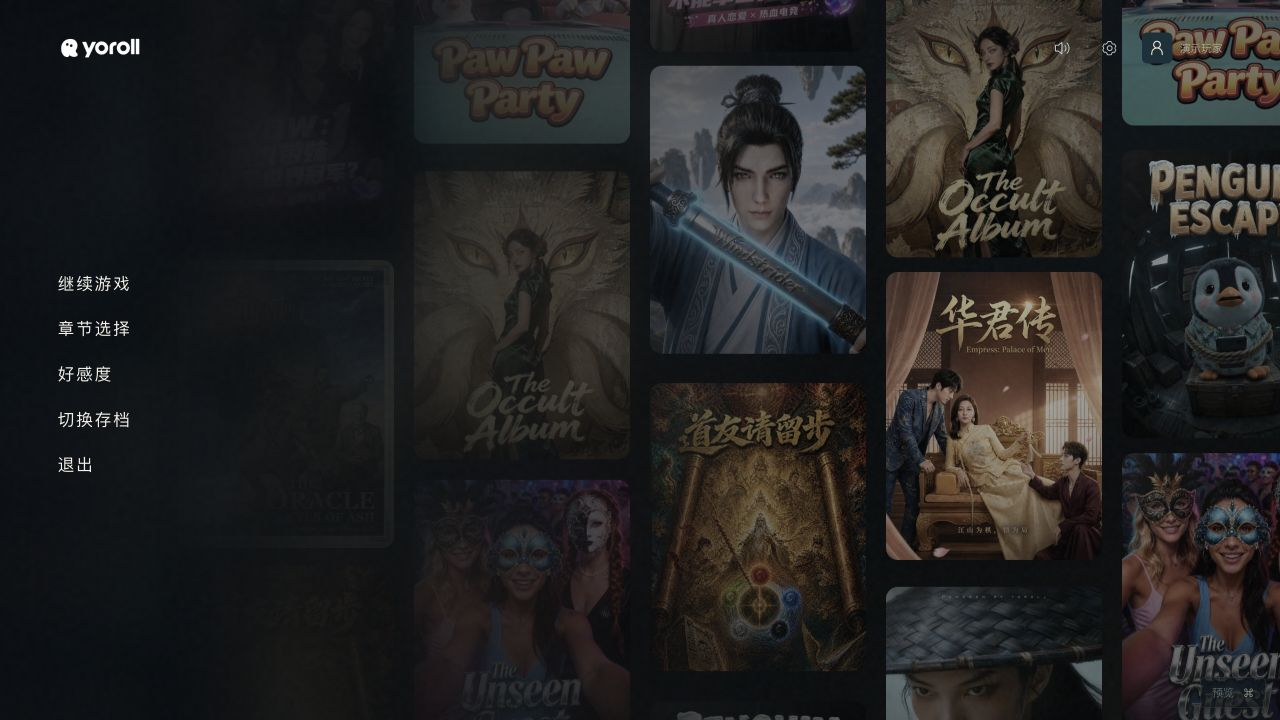
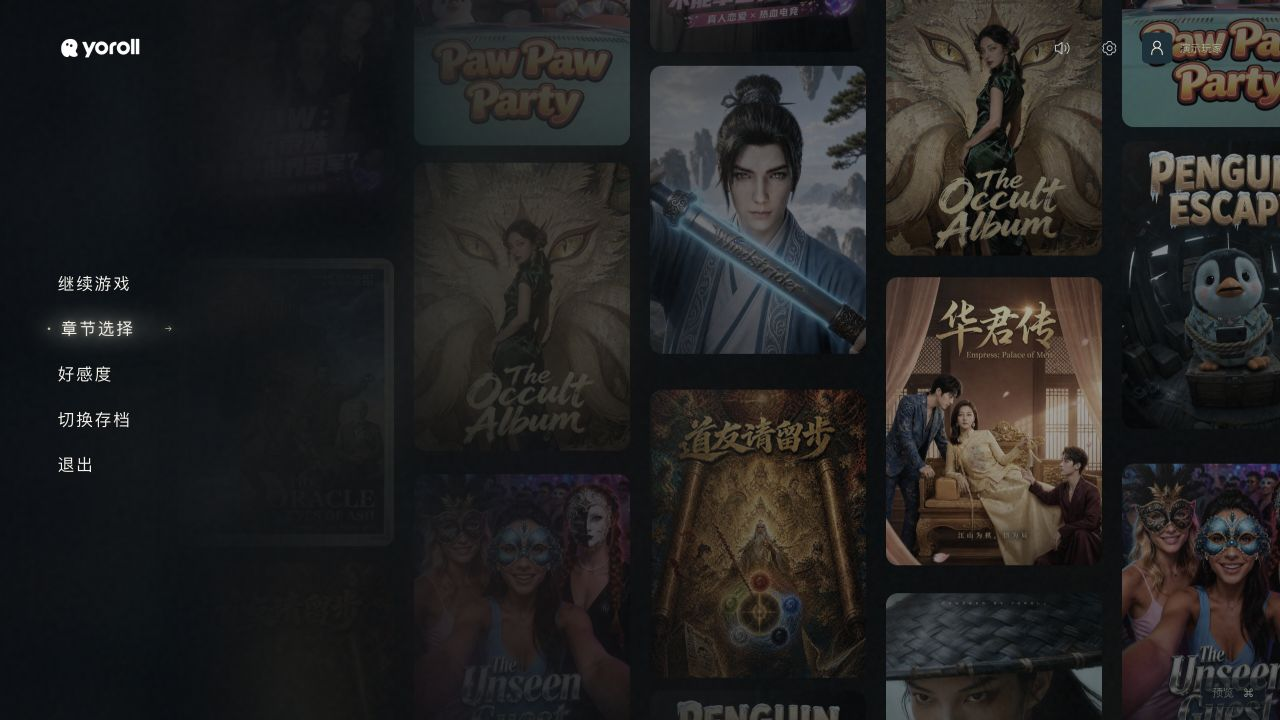
Add soft light to homepage menu hover states

diff --git a/compare.html b/compare.html
@@ -1,4 +1,4 @@
-<!doctype html><html lang="zh-CN"><head><meta charset="utf-8"><meta name="viewport" content="width=device-width,initial-scale=1"><title>Yoroll 游戏 UI · 改版对比与比例方案</title><link rel="icon" href="wall/assets/yoroll-icon.svg"><link rel="stylesheet" href="compare.css?v=real-game-covers-20261114"></head>
+<!doctype html><html lang="zh-CN"><head><meta charset="utf-8"><meta name="viewport" content="width=device-width,initial-scale=1"><title>Yoroll 游戏 UI · 改版对比与比例方案</title><link rel="icon" href="wall/assets/yoroll-icon.svg"><link rel="stylesheet" href="compare.css?v=home-menu-hover-glow-20261114"></head>
 <body><header class="report-header"><a class="brand" href="index.html"><img src="assets/yoroll-logo.png" alt="yoroll"></a><div><span>UI / MOTION STUDY</span><h1>更克制的比例，更连贯的节奏。</h1></div><a id="open-prototype" class="primary-link" href="index.html?page=home" target="_blank">打开交互原型 ↗</a></header>
 <div class="scope"><i></i><span>本地交互方案</span><span>17 个页面 / 状态</span><span>全视口背景</span><span>未修改线上 Unity 游戏</span></div>
 <main class="report-layout"><aside class="page-sidebar"><div class="sidebar-title">逐页对比</div><nav id="page-list"></nav><a href="#proportions">比例调整方案 ↓</a><a href="#handoff">动效与交付说明 ↓</a></aside><article><section class="comparison-section"><div class="page-heading"><div><span id="page-kind" class="eyebrow"></span><h2 id="page-name"></h2></div><div class="page-switch"><button id="prev" aria-label="上一页">←</button><span id="page-count"></span><button id="next" aria-label="下一页">→</button></div></div>
@@ -6,4 +6,4 @@
 <div id="comparison" class="comparison fit-stage" data-mode="wipe"><div class="still-stage"><div class="before-layer"><img id="before-image" alt="修改前截图"><div id="no-before" class="no-before" hidden><span>—</span><h3>没有对应原版截图</h3><p id="before-note"></p></div><span class="picture-label before-label">原版</span></div><div class="after-layer" id="after-layer"><img id="after-image" alt="修改后截图"><span class="picture-label after-label">新版</span></div><div id="wipe-handle" class="wipe-handle"><span>↔</span></div><div class="safe-area" aria-hidden="true"><span>4.5% 水平安全区</span></div></div><div class="motion-stage" hidden><iframe id="motion-frame" title="页面动效预览"></iframe><div class="safe-area" aria-hidden="true"><span>4.5% 水平安全区</span></div></div></div>
 <div id="slider-row" class="slider-row"><span>新版更多</span><input id="wipe-slider" type="range" min="0" max="100" value="50" aria-label="新旧画面分割位置"><span>原版更多</span></div><p id="image-note" class="image-note"></p><div class="change-summary"><div><h3>布局与层级</h3><p id="change"></p></div><div><h3>比例</h3><p id="ratio"></p></div><div><h3>动效与操作</h3><p id="motion"></p><p id="interaction"></p></div></div></section>
 <section id="proportions" class="spec-section"><div class="section-heading"><span class="eyebrow">PROPORTION SYSTEM</span><h2>分别调整层级，建立统一的尺寸体系。</h2><p>以下均以 1920×1080 为设计基准。背景随视口铺满，UI 按当前基准等比缩放；水平安全区为画面宽度的 4.5%。原版数值来自截图估测。</p></div><div class="table-scroll"><table><thead><tr><th>项目</th><th>原版 · 约</th><th>新版</th><th>变化</th><th>调整目的</th></tr></thead><tbody id="proportion-table"></tbody></table></div><div class="principles"><div><span>01</span><h3>让场景成为主体</h3><p>减少全屏灰白覆盖和重高光。菜单、设置、弹窗用暗色虚化与局部明暗建立前后层次。</p></div><div><span>02</span><h3>控制视觉重量</h3><p>正文、辅助数值、主操作分别定标。保留大结果标题，收紧表单标签与导航控件。</p></div><div><span>03</span><h3>统一反馈语言</h3><p>细描边、短位移、柔和减速。悬停、按下、选中、取消与退出都给出明确回应。</p></div></div></section>
-<section id="handoff" class="spec-section"><div class="section-heading"><span class="eyebrow">MOTION SYSTEM</span><h2>一套进出场节奏，覆盖每个页面。</h2><p>页面退出 150ms，新页标题先入场，内容以 42–85ms 错峰，主体在约 0.8–1.1s 内落位。背景与封面 Logo 使用更长的缓慢收尾。</p></div><div class="motion-grid"><div><h3>常规入场</h3><strong>560–760<span> ms</span></strong><p>缓动 cubic-bezier(.16, 1, .3, 1)<br>上下位移约 8–24px，以设计基准计</p></div><div><h3>背景推近</h3><strong>3.6<span> s</span></strong><p>起止速度与加速度均为零<br>封面 100% → 103.5%，结束后停留</p></div><div><h3>确认弹窗</h3><strong>420<span> ms</span></strong><p>遮罩先淡入，弹窗轻浮落位<br>退出 150ms，取消后恢复焦点</p></div></div><div class="check-row"><span>✓ 页面切换</span><span>✓ 悬停 / 按下</span><span>✓ 键盘操作</span><span>✓ 弹窗焦点</span><span>✓ 减少动态效果适配</span><span>✓ 所有页面可重播</span><span>✓ Hover / 点击 / 切页音效</span></div><div class="file-links"><a href="design-tokens.json" download>下载尺寸与颜色参数</a><a href="motion-spec.json" download>下载逐页动效参数</a><a href="sound-spec.json" download>下载界面音效参数</a><a href="implementation-notes.txt" download>下载落地说明</a><a href="https://preview.game.yoroll.ai/?config=Race&test=1&lang=zh" target="_blank">查看原始预览 ↗</a></div><details open><summary>范围、素材与验证说明</summary><ul id="scope-notes"></ul><p>已检查主菜单、章节与剧情树导航；设置数值与语言下拉；新建存档和确认 / 取消；限时选择暂停计时；选择 → QTE → 结果链路；完成页可进入下一章或返回章节选择，末章进入游戏结束；QTE 超时进入失败并可重试。所有页面 / 状态均已保存本地截图。</p></details></section><footer class="report-footer">YOROLL · UI & MOTION EXPLORATION <span>2026.11.11 · 本地方案</span></footer></article></main><script src="report-data.js?v=real-game-covers-20261114"></script><script src="compare.js?v=real-game-covers-20261114"></script></body></html>
+<section id="handoff" class="spec-section"><div class="section-heading"><span class="eyebrow">MOTION SYSTEM</span><h2>一套进出场节奏，覆盖每个页面。</h2><p>页面退出 150ms，新页标题先入场，内容以 42–85ms 错峰，主体在约 0.8–1.1s 内落位。背景与封面 Logo 使用更长的缓慢收尾。</p></div><div class="motion-grid"><div><h3>常规入场</h3><strong>560–760<span> ms</span></strong><p>缓动 cubic-bezier(.16, 1, .3, 1)<br>上下位移约 8–24px，以设计基准计</p></div><div><h3>背景推近</h3><strong>3.6<span> s</span></strong><p>起止速度与加速度均为零<br>封面 100% → 103.5%，结束后停留</p></div><div><h3>确认弹窗</h3><strong>420<span> ms</span></strong><p>遮罩先淡入，弹窗轻浮落位<br>退出 150ms，取消后恢复焦点</p></div></div><div class="check-row"><span>✓ 页面切换</span><span>✓ 悬停 / 按下</span><span>✓ 键盘操作</span><span>✓ 弹窗焦点</span><span>✓ 减少动态效果适配</span><span>✓ 所有页面可重播</span><span>✓ Hover / 点击 / 切页音效</span></div><div class="file-links"><a href="design-tokens.json" download>下载尺寸与颜色参数</a><a href="motion-spec.json" download>下载逐页动效参数</a><a href="sound-spec.json" download>下载界面音效参数</a><a href="implementation-notes.txt" download>下载落地说明</a><a href="https://preview.game.yoroll.ai/?config=Race&test=1&lang=zh" target="_blank">查看原始预览 ↗</a></div><details open><summary>范围、素材与验证说明</summary><ul id="scope-notes"></ul><p>已检查主菜单、章节与剧情树导航；设置数值与语言下拉；新建存档和确认 / 取消；限时选择暂停计时；选择 → QTE → 结果链路；完成页可进入下一章或返回章节选择，末章进入游戏结束；QTE 超时进入失败并可重试。所有页面 / 状态均已保存本地截图。</p></details></section><footer class="report-footer">YOROLL · UI & MOTION EXPLORATION <span>2026.11.11 · 本地方案</span></footer></article></main><script src="report-data.js?v=home-menu-hover-glow-20261114"></script><script src="compare.js?v=home-menu-hover-glow-20261114"></script></body></html>

diff --git a/report-data.js b/report-data.js
@@ -29,9 +29,10 @@ window.YOROLL_REPORT = {
       "change": "补上「好感度」后为五项菜单。减小字号与行距，压暗左侧灰雾；右侧保留清晰海报和场景层次。默认背景使用用户提供的 15 张真实游戏封面，完整保留 3:4 图面与海报自带文字，沿用已确认的排列和下方柔性升入。",
       "ratio": "菜单 25px；行高 51px，行间隔 17px；Logo 宽 128px；头像 46px。",
       "motion": "菜单由上方 22px 逐项落位，560ms、间隔 65ms；右上角先头像、后设置，由右向左落位。",
-      "interaction": "菜单可进入章节、好感度、存档、游戏。只播放此前认可的原开场音，末尾 3s 柔和渐弱到静音后结束，不接背景循环。同次进入的页面操作不会重新触发开场；重播开场音和重播首页可主动重播。",
+      "interaction": "菜单可进入章节、好感度、存档、游戏。只播放此前认可的原开场音，末尾 3s 柔和渐弱到静音后结束，不接背景循环。同次进入的页面操作不会重新触发开场；重播开场音和重播首页可主动重播。 菜单悬停与键盘聚焦增加暖白文字柔光、背后的渐隐光晕，并为原有圆点和箭头补上微光；380ms 柔和显现，离开后淡出，保持现有比例与位移。",
       "backgroundAssetRevision": "real-game-covers-20261114",
-      "backgroundCoverCount": 15
+      "backgroundCoverCount": 15,
+      "hoverRevision": "home-menu-hover-glow-20261114"
     },
     {
       "id": "cover",
@@ -329,6 +330,7 @@ window.YOROLL_REPORT = {
     "Game Over 粒子集中至图案内部：活动区由 880×660 收为 640×500，取消空心环状分布；34 个粒子按中心密度聚集，8 个保留在外围。核心粒子横向漂移与上升幅度分别收至 .55/.6，避免运动后再次散开。总数、三层远近、粒子大小/透明度、入场节奏和音效保持当前版本。",
     "Game Over 粒子从上浮改为中心发散：粒子在中心附近从小而淡出现，向四周舒展、减速并渐隐，错开寿命持续补入。核心 34 个的出生半径为 6–26px、终点为 82–152px；外围 8 个最多到 220px，保留中间密度及远近层次。既有构图、粒子大小/透明度、分层入场和所有音效不变。",
     "Game Over 发散感加强：核心粒子终点由 82–152px 加至 100–180px，外围由 160–220px 加至 185–250px；寿命约缩短三成，前半段缓动更有向外推动感，末尾仍减速渐隐。42 个粒子持续从中心补入，远中近层次、透明度、尺寸、主体入场及声音保持。",
-    "2026-11-14 默认海报背景使用真实封面：15 张原图均为 3:4，按完整构图压缩为 810×1080 WebP，无裁切、重绘或新增文字；源文件未修改。卡片尺寸、间距、下方柔性升入、落位后的漂浮、左侧深色高斯模糊和所有音效沿用已确认版本。素材来源与 SHA-256 记录见 wall/assets/covers/manifest.json。"
+    "2026-11-14 默认海报背景使用真实封面：15 张原图均为 3:4，按完整构图压缩为 810×1080 WebP，无裁切、重绘或新增文字；源文件未修改。卡片尺寸、间距、下方柔性升入、落位后的漂浮、左侧深色高斯模糊和所有音效沿用已确认版本。素材来源与 SHA-256 记录见 wall/assets/covers/manifest.json。",
+    "首页菜单 hover 补入与已定卡片柔光一致的暖白光：文字轻柔发亮，背后为四周渐隐的横向椭圆光晕，圆点与箭头带少量余光。只作用于当前悬停或键盘聚焦项；不增加可见底框，不改变菜单尺寸、间距或导航行为。单张封面首页共用这一状态，减少动态效果时保留静态光感。"
   ]
 };

diff --git a/style.css b/style.css
@@ -385,3 +385,45 @@
 @keyframes glass-capsule-breathe{0%,100%{opacity:var(--glass-light-min)}50%{opacity:var(--glass-light-max)}}
 @keyframes glass-capsule-rim-breathe{0%,100%{border-color:rgba(239,248,252,calc(.28 + var(--glass-hover-boost)));box-shadow:inset 0 calc(var(--p)*1) calc(var(--p)*4) rgba(255,255,255,calc(.08 + var(--glass-hover-boost))),inset 0 calc(var(--p)*-1) calc(var(--p)*4) rgba(255,255,255,calc(.05 + var(--glass-hover-boost))),0 0 calc(var(--p)*3) rgba(223,243,255,var(--glass-hover-boost))}50%{border-color:rgba(249,253,255,calc(.94 + var(--glass-hover-boost)));box-shadow:inset 0 calc(var(--p)*2) calc(var(--p)*10) rgba(255,255,255,calc(.65 + var(--glass-hover-boost))),inset 0 calc(var(--p)*-2) calc(var(--p)*10) rgba(255,255,255,calc(.48 + var(--glass-hover-boost))),0 0 calc(var(--p)*16) rgba(223,243,255,calc(.27 + var(--glass-hover-boost)))}}
 @media(prefers-reduced-motion:reduce){.btn.btn-glass{animation:none;border-color:#eff8fca1;box-shadow:inset 0 calc(var(--p)*2) calc(var(--p)*7) #ffffff45,inset 0 calc(var(--p)*-2) calc(var(--p)*7) #ffffff2e}.btn.btn-glass:before{animation:none;opacity:.7}.btn.btn-glass:after{animation:none;opacity:.2}.btn.btn-glass:focus-visible{border-color:#f7f5dc;box-shadow:0 0 calc(var(--p)*12) #e7e7c126,inset 0 0 calc(var(--p)*8) #ffffff19}}
+
+/* Menu hover follows the warm-white selection light used by cards and controls. */
+.home-menu button{
+  isolation:isolate;
+  text-shadow:0 0 calc(var(--p)*9) #f6f0dc00,0 0 calc(var(--p)*24) #e4dcc600;
+  transition:color .25s,transform .35s var(--ease),text-shadow .35s var(--soft);
+}
+.home-menu button::after{
+  content:"";
+  position:absolute;
+  z-index:-1;
+  left:calc(var(--p)*-35);
+  right:calc(var(--p)*-30);
+  top:50%;
+  height:calc(var(--p)*68);
+  border-radius:50%;
+  background:radial-gradient(ellipse at 36% 50%,#f0eddb42 0%,#e2dbc61f 38%,#d8c7a508 62%,transparent 80%);
+  filter:blur(calc(var(--p)*13));
+  opacity:0;
+  transform:translateY(-50%) scale(.94,.82);
+  pointer-events:none;
+  transition:opacity .38s var(--soft),transform .55s var(--ease);
+}
+.home-menu button:is(:hover,:focus-visible){
+  text-shadow:0 0 calc(var(--p)*9) #f6f0dc66,0 0 calc(var(--p)*24) #e4dcc638;
+}
+.home-menu button:is(:hover,:focus-visible)::after{
+  opacity:.86;
+  transform:translateY(-50%) scale(1);
+}
+.home-menu button::before{box-shadow:0 0 calc(var(--p)*9) #f0dfb98c;}
+.home-menu .menu-mark{
+  filter:drop-shadow(0 0 calc(var(--p)*5) #eadcbb00);
+  transition:opacity .2s,filter .3s var(--soft);
+}
+.home-menu button:is(:hover,:focus-visible) .menu-mark{
+  opacity:1;
+  filter:drop-shadow(0 0 calc(var(--p)*5) #eadcbb8c);
+}
+@media(prefers-reduced-motion:reduce){
+  .home-menu button,.home-menu button::before,.home-menu button::after,.home-menu .menu-mark{transition:none;}
+}

diff --git a/compare.js b/compare.js
@@ -15,7 +15,7 @@ function updatePage(){
  $('#page-kind').textContent=page.kind;
  $('#page-count').textContent=`${String(index+1).padStart(2,'0')} / ${pages.length}`;
  $('#change').textContent=page.change;$('#ratio').textContent=page.ratio;$('#motion').textContent=page.motion;$('#interaction').textContent=page.interaction;
- $('#after-image').src=`comparison/after/${page.id}.jpg?v=real-game-covers-20261114`;
+ $('#after-image').src=`comparison/after/${page.id}.jpg?v=home-menu-hover-glow-20261114`;
  $('#after-image').alt=page.name+'修改后';
  $('#before-image').hidden=!page.before;
  $('#no-before').hidden=Boolean(page.before);
@@ -23,12 +23,12 @@ function updatePage(){
  else $('#before-image').removeAttribute('src');
  $('#before-note').textContent=page.beforeNote|| (page.kind==='沿用已定方案'?'沿用本聊天之前已确认的封面构图与素材。':'该状态未在这次线上预览中观察到。新版提供可操作的补充动效示例。');
  $('#image-note').textContent=mode==='motion'?'当前为可操作的实时动效。页面内可以继续导航，点击重播可回到所选页面。':page.before?(page.beforeSource==='user'?'原版来自用户提供的旧版 UI；新版为浏览器实际截图，重点对比尺寸、间距和动效。':'原版来自线上实际截图；新版为本地浏览器截图。底图部分不同，对比重点为 UI 占比、层级与位置。'):'左侧保留来源说明；右侧展示本轮方案。点击「播放动效」体验完整入场。';
- $('#open-prototype').href=`index.html?page=${page.id}&revision=real-game-covers-20261114`;
+ $('#open-prototype').href=`index.html?page=${page.id}&revision=home-menu-hover-glow-20261114`;
  document.querySelectorAll('[data-page]').forEach(button=>{if(button.dataset.page===page.id)button.setAttribute('aria-current','page');else button.removeAttribute('aria-current');});
  history.replaceState(null,'','#'+page.id);
  if(mode==='motion')loadMotion();
 }
-function loadMotion(){const page=pages[index];$('#motion-frame').src=`index.html?page=${page.id}&capture=1&revision=real-game-covers-20261114&replay=${++replay}`;}
+function loadMotion(){const page=pages[index];$('#motion-frame').src=`index.html?page=${page.id}&capture=1&revision=home-menu-hover-glow-20261114&replay=${++replay}`;}
 function setMode(value){
  mode=value;$('#comparison').dataset.mode=mode;
  document.querySelectorAll('button[data-mode]').forEach(button=>button.setAttribute('aria-pressed',String(button.dataset.mode===mode)));

diff --git a/index.html b/index.html
@@ -6,7 +6,7 @@
   <meta name="theme-color" content="#0a0d0e">
   <title>Yoroll · 游戏 UI 动效改版</title>
   <link rel="icon" href="wall/assets/yoroll-icon.svg">
-  <link rel="stylesheet" href="style.css?v=real-game-covers-20261114">
+  <link rel="stylesheet" href="style.css?v=home-menu-hover-glow-20261114">
   <link rel="preload" as="fetch" href="assets/audio/home-opening.wav?v=opening-fade-20261111" crossorigin="anonymous">
 </head>
 <body>
@@ -30,9 +30,9 @@
     <div class="review-sound"><button data-action="restart-music">↻ 重播开场音</button><button data-action="toggle-preview-audio">暂停声音</button></div>
     <p id="music-status" class="sound-status">首次点击后播放开场音</p>
   </aside>
-  <script src="ui-sound.js?v=real-game-covers-20261114"></script>
+  <script src="ui-sound.js?v=home-menu-hover-glow-20261114"></script>
   <script src="home-music.js?v=completion-gold-particles-20261114"></script>
   <script src="story-tree.js?v=tree-locked-hover-20261113"></script>
-  <script src="app.js?v=real-game-covers-20261114"></script>
+  <script src="app.js?v=home-menu-hover-glow-20261114"></script>
 </body>
 </html>
